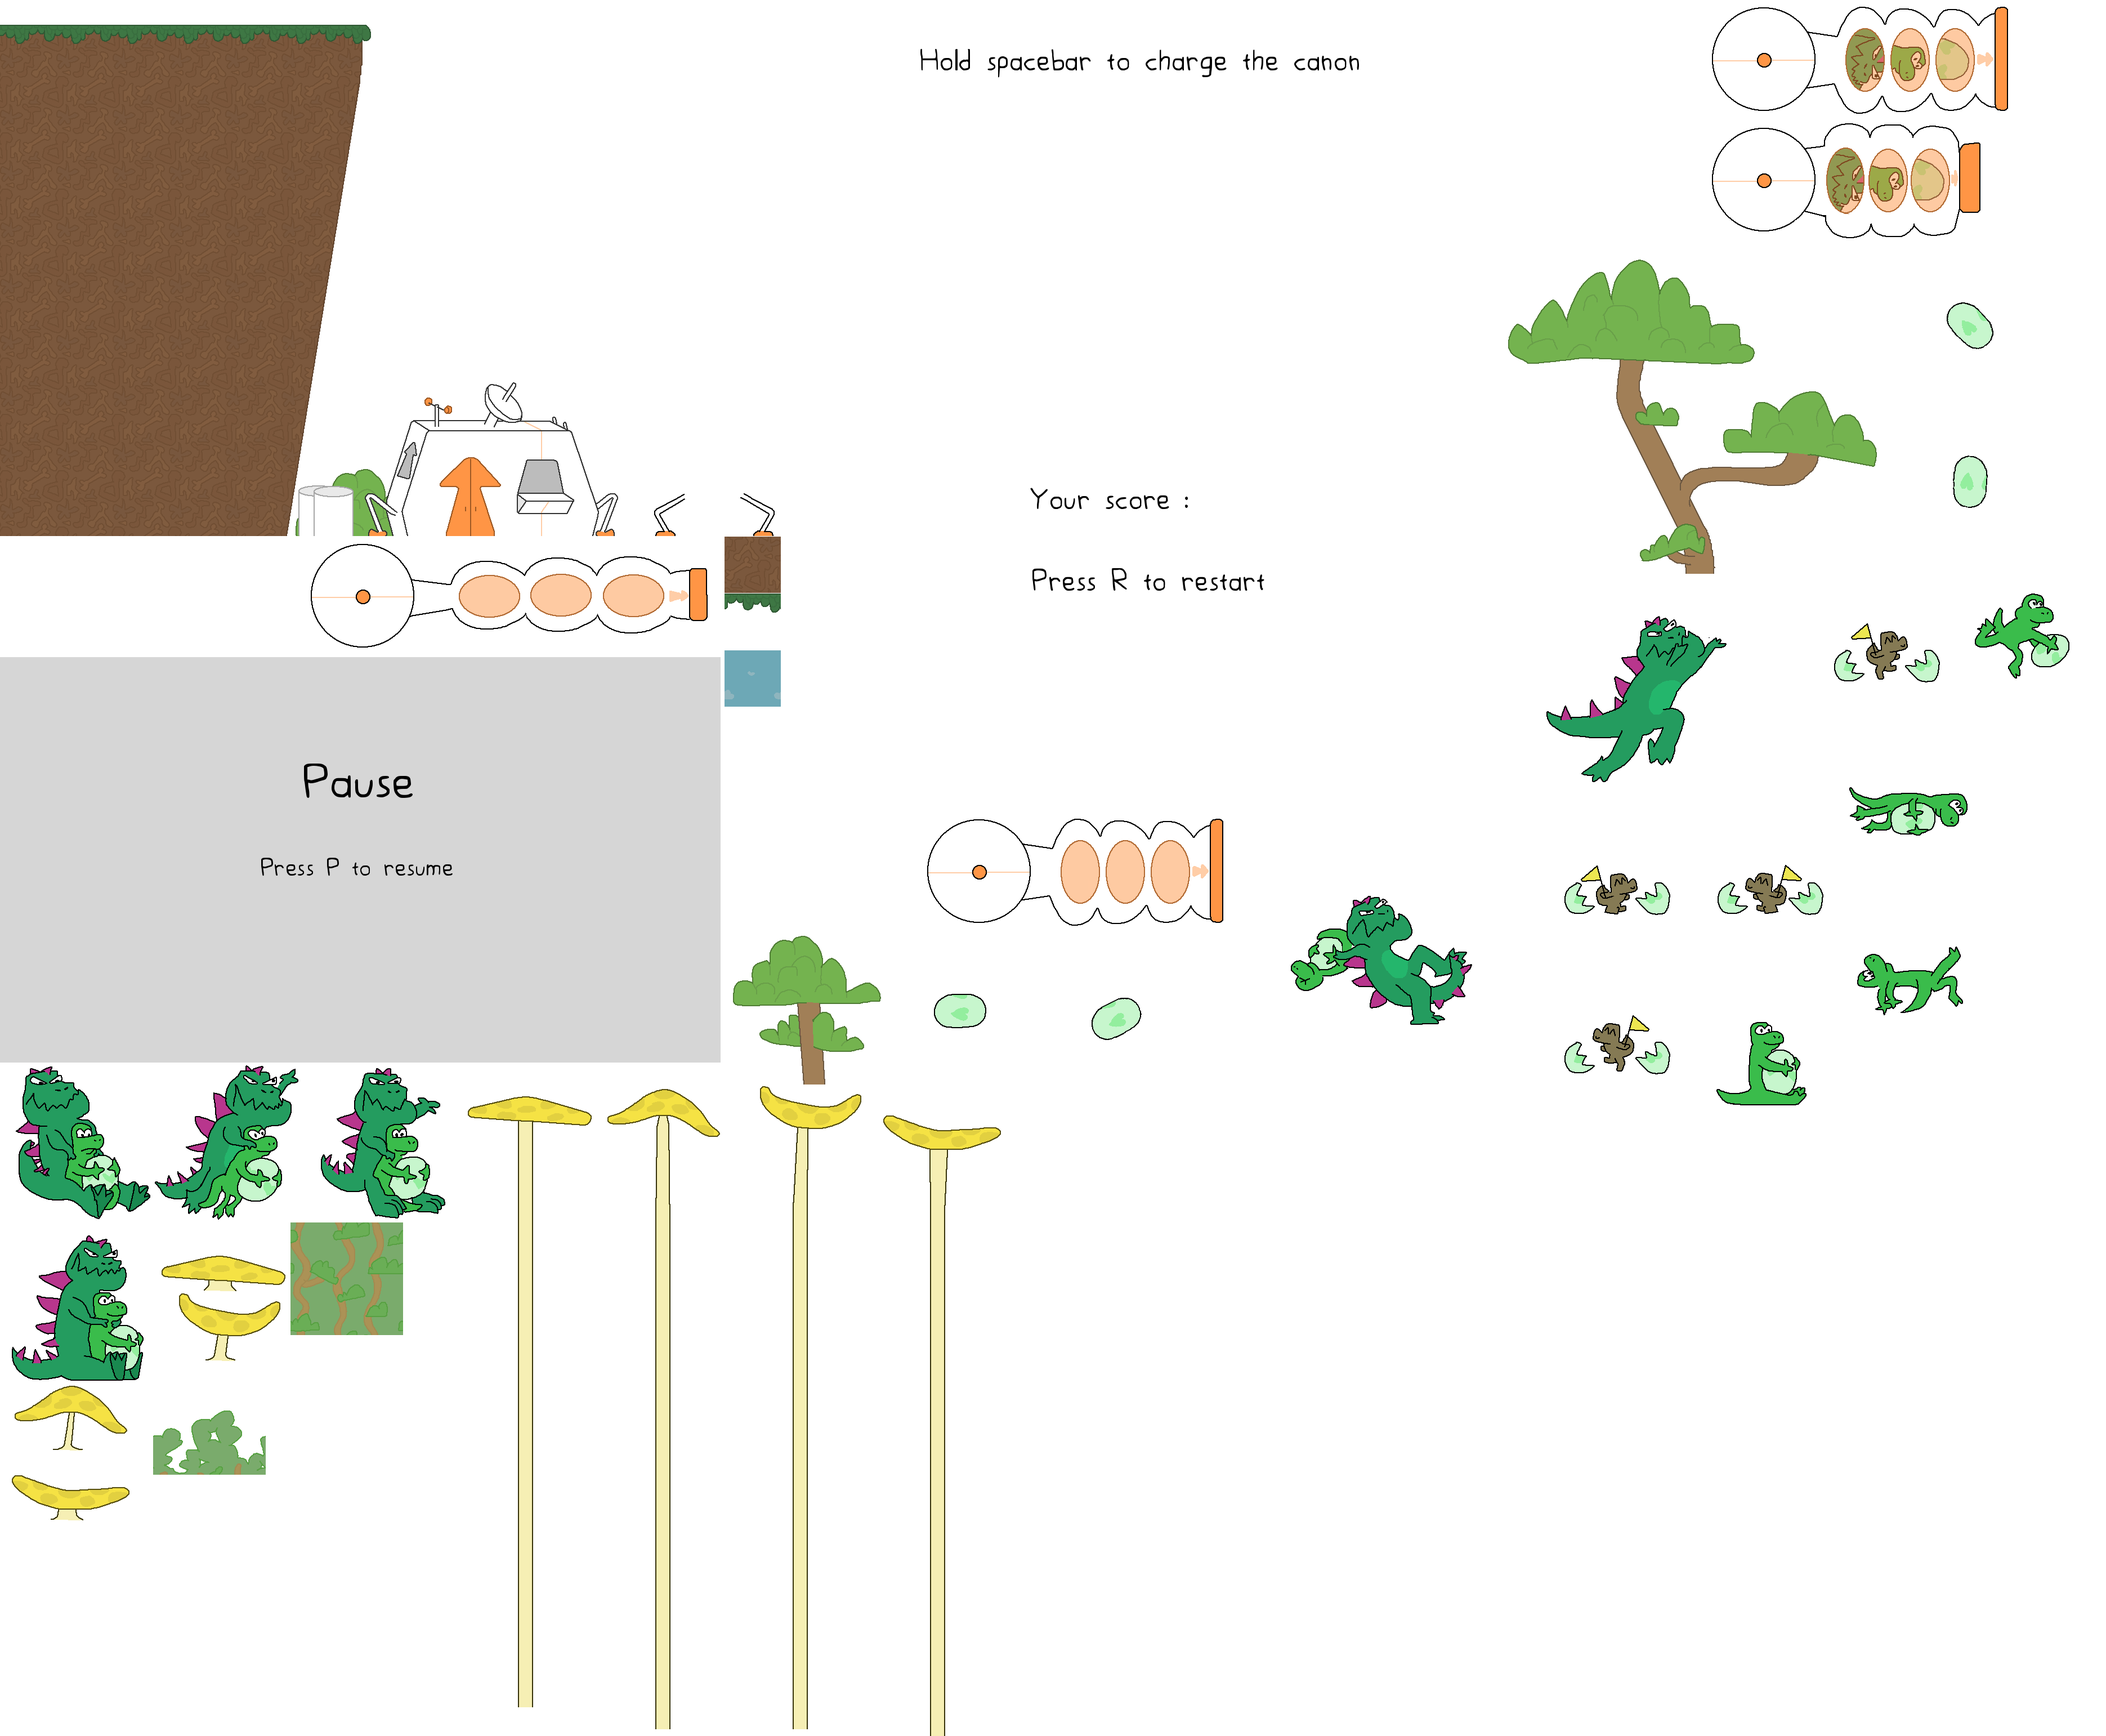
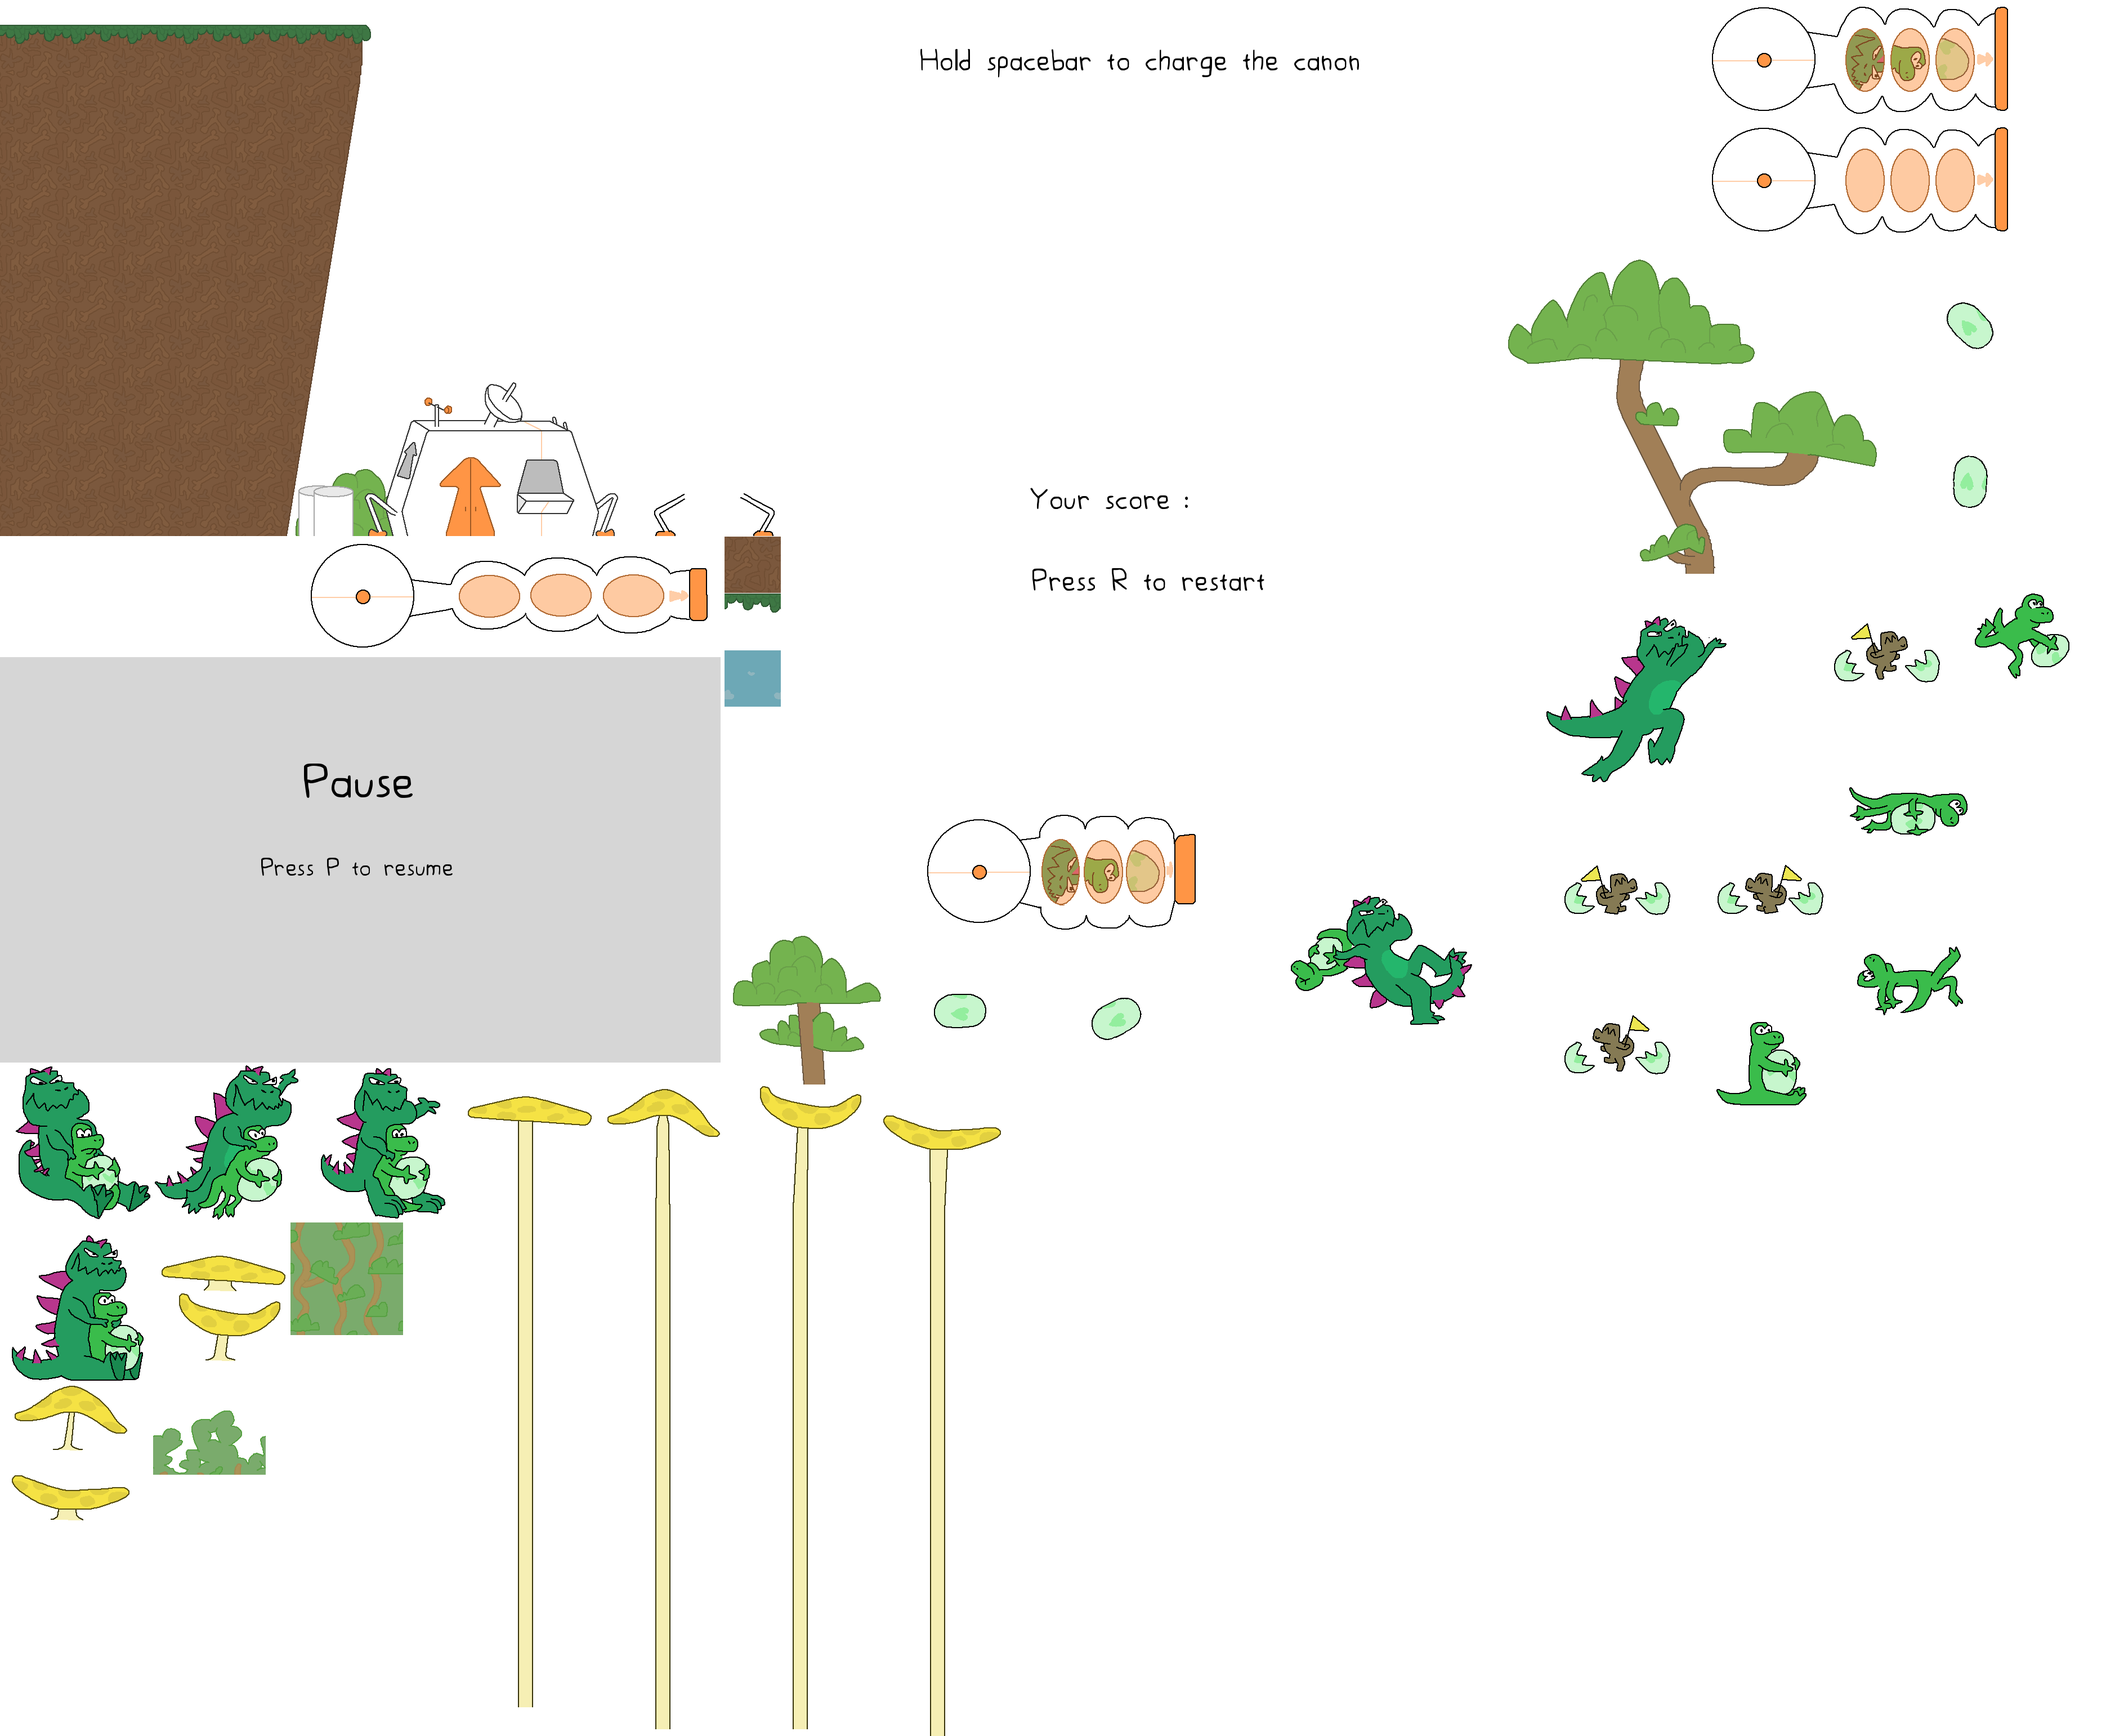
Animate canon shoot

Changed region(s): [[0.8682, 0.0623, 0.9612, 0.1246], [0.4961, 0.4671, 0.5891, 0.5294]]

diff --git a/Components/DroppedDino.cs b/Components/DroppedDino.cs
@@ -21,7 +21,12 @@ namespace OpenJam2020.Components
         {
             base.OnAddedToEntity();
 
-            if (DinoID == 0) Entity.AddComponent(new SpriteRenderer(Game.Atlas.GetSprite("canon_empty")));
+            if (DinoID == 0)
+            {
+                Entity.AddComponent(new SpriteAnimator())
+                    .AddAnimation("canon_shoot", Game.Atlas.GetAnimation("canon_shoot"))
+                    .Play("canon_shoot", SpriteAnimator.LoopMode.Once);
+            }
             if (DinoID == 3) Entity.AddComponent(new SpriteRenderer(Game.Atlas.GetSprite("3-throw")));
             if (DinoID == 2) Entity.AddComponent(new SpriteRenderer(Game.Atlas.GetSprite("2-throw")));
         }
